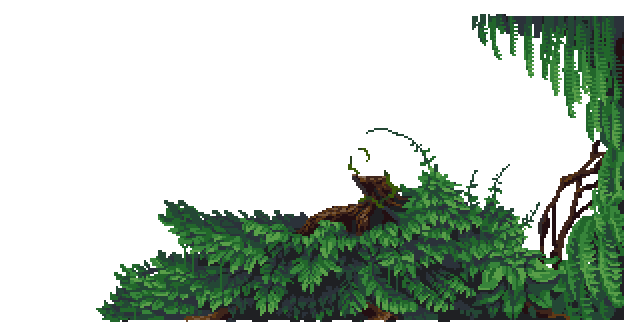
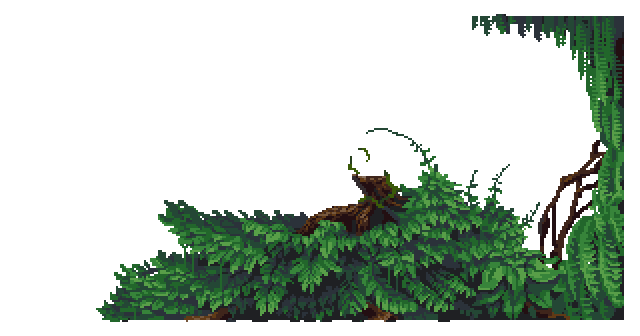
Fern leaves now can swing in wind.

Changed region(s): [[0.75, 0.0298, 0.9375, 0.4167]]

diff --git a/Sources/Modules/Yggdrasil/YggdrasilTown/Tiles/TwilightForest/RoomScenes/WaterSluice_Liquid_Scene.cs b/Sources/Modules/Yggdrasil/YggdrasilTown/Tiles/TwilightForest/RoomScenes/WaterSluice_Liquid_Scene.cs
@@ -15,8 +15,8 @@ public class WaterSluice_Liquid_Scene : TileVFX
 		int rightSolid = 0;
 		for (int x = 1; x < 15; x++)
 		{
-			Tile tileLeft = YggdrasilWorldGeneration.SafeGetTile(i - x, j);
-			Tile tileRight = YggdrasilWorldGeneration.SafeGetTile(i + x, j);
+			Tile tileLeft = TileUtils.SafeGetTile(i - x, j);
+			Tile tileRight = TileUtils.SafeGetTile(i + x, j);
 			if (tileLeft.HasTile && tileLeft.TileType == ModContent.TileType<GreenRelicBrick>())
 			{
 				leftSolid++;
@@ -81,7 +81,7 @@ public class WaterSluice_Liquid_Scene : TileVFX
 		// for (int i = 0; i < 300; i++)
 		// {
 		// Vector2 drawPos = worldPos + new Vector2(0, i * 2);
-		// var tile = YggdrasilWorldGeneration.SafeGetTile(drawPos.ToTileCoordinates());
+		// var tile = TileUtils.SafeGetTile(drawPos.ToTileCoordinates());
 		// float liquidCut = (16 - drawPos.Y % 16) * 16f;
 		// if ((Collision.IsWorldPointSolid(drawPos) && !Main.tileSolidTop[tile.TileType]) || tile.LiquidAmount > liquidCut)
 		// {
@@ -108,7 +108,7 @@ public class WaterSluice_Liquid_Scene : TileVFX
 		for (int i = 0; i < 300; i++)
 		{
 			Vector2 drawPos = worldPos + new Vector2(0, i * 2);
-			var tile = YggdrasilWorldGeneration.SafeGetTile(drawPos.ToTileCoordinates());
+			var tile = TileUtils.SafeGetTile(drawPos.ToTileCoordinates());
 			float liquidCut = (16 - drawPos.Y % 16) * 16f;
 			float waterWidth = 3;
 			if ((Collision.IsWorldPointSolid(drawPos) && !Main.tileSolidTop[tile.TileType]) || tile.LiquidAmount > liquidCut)
@@ -132,7 +132,7 @@ public class WaterSluice_Liquid_Scene : TileVFX
 		for (int i = 0; i < 300; i++)
 		{
 			Vector2 drawPos = worldPos + new Vector2(0, i * 2);
-			var tile = YggdrasilWorldGeneration.SafeGetTile(drawPos.ToTileCoordinates());
+			var tile = TileUtils.SafeGetTile(drawPos.ToTileCoordinates());
 			float liquidCut = (16 - drawPos.Y % 16) * 16f;
 			float waterWidth = 29;
 			if ((Collision.IsWorldPointSolid(drawPos) && !Main.tileSolidTop[tile.TileType]) || tile.LiquidAmount > liquidCut)
@@ -166,7 +166,7 @@ public class WaterSluice_Liquid_Scene : TileVFX
 		for (int i = 0; i < 300; i++)
 		{
 			Vector2 drawPos = worldPos + new Vector2(0, i * 2);
-			var tile = YggdrasilWorldGeneration.SafeGetTile(drawPos.ToTileCoordinates());
+			var tile = TileUtils.SafeGetTile(drawPos.ToTileCoordinates());
 			float liquidCut = (16 - drawPos.Y % 16) * 16f;
 			if ((Collision.IsWorldPointSolid(drawPos) && !Main.tileSolidTop[tile.TileType]) || tile.LiquidAmount > liquidCut)
 			{
@@ -219,7 +219,7 @@ public class WaterSluice_Liquid_Scene : TileVFX
 		// {
 		// (offset0, offset1) = (offset1, offset0);
 		// }
-		// var tile = YggdrasilWorldGeneration.SafeGetTile(drawPos.ToTileCoordinates());
+		// var tile = TileUtils.SafeGetTile(drawPos.ToTileCoordinates());
 		// float liquidCut = (16 - drawPos.Y % 16) * 16f;
 		// if ((Collision.IsWorldPointSolid(drawPos) && !Main.tileSolidTop[tile.TileType]) || tile.LiquidAmount > liquidCut)
 		// {
@@ -272,7 +272,7 @@ public class WaterSluice_Liquid_Scene : TileVFX
 				(offset0, offset1) = (offset1, offset0);
 				(drawPos0, drawPos1) = (drawPos1, drawPos0);
 			}
-			var tile = YggdrasilWorldGeneration.SafeGetTile(drawPos0.ToTileCoordinates());
+			var tile = TileUtils.SafeGetTile(drawPos0.ToTileCoordinates());
 			float liquidCut = (16 - drawPos0.Y % 16) * 16f;
 			if ((Collision.IsWorldPointSolid(drawPos0) && !Main.tileSolidTop[tile.TileType]) || tile.LiquidAmount > liquidCut)
 			{

diff --git a/Sources/Everglow.Function/VFX/Scene/FlagLikeVFX.cs b/Sources/Everglow.Function/VFX/Scene/FlagLikeVFX.cs
@@ -17,6 +17,13 @@ public class FlagLikeVFX : TileVFX
 
 	public Vector2 AnchorOffset = Vector2.zeroVector;
 
+	public bool Flip_H = false;
+
+	/// <summary>
+	/// This associate with the distort magnitude in wind push.
+	/// </summary>
+	public float Hardness = 1f;
+
 	public void GenerateMeshgrid()
 	{
 		int width = Texture.Width / 16;
@@ -49,34 +56,36 @@ public class FlagLikeVFX : TileVFX
 					origPos.X = Meshgrid[x, y - 1].X;
 					Meshgrid[x, y].Y += MathF.Pow(Meshgrid.GetLength(1) - y, 2) * 0.006f;
 				}
-				Meshgrid[x, y] += GetWindPush(Meshgrid[x, y].X, Meshgrid[x, y].Y);
+				Meshgrid[x, y] += GetWindPush(Meshgrid[x, y].X, Meshgrid[x, y].Y, Hardness);
 				Meshgrid[x, y] += (origPos - Meshgrid[x, y]) * 0.2f;
 
 				if (y < Meshgrid.GetLength(1) - 1)
 				{
-					PushFrom(ref origPos, Meshgrid[x, y + 1]);
+					PushFrom(ref origPos, ref Meshgrid[x, y + 1]);
 				}
 				if (y > 0)
 				{
-					PushFrom(ref origPos, Meshgrid[x, y - 1]);
+					PushFrom(ref origPos, ref Meshgrid[x, y - 1]);
 				}
 				if (x < Meshgrid.GetLength(0) - 1)
 				{
-					PushFrom(ref origPos, Meshgrid[x + 1, y]);
+					PushFrom(ref origPos, ref Meshgrid[x + 1, y]);
 				}
 				if (x > 0)
 				{
-					PushFrom(ref origPos, Meshgrid[x - 1, y]);
+					PushFrom(ref origPos, ref Meshgrid[x - 1, y]);
 				}
 			}
 		}
 		base.Update();
 	}
 
-	public void PushFrom(ref Vector2 origPosition, Vector2 targetPos)
+	public void PushFrom(ref Vector2 origPosition, ref Vector2 targetPos)
 	{
 		Vector2 totarget = targetPos - origPosition;
-		origPosition += totarget.NormalizeSafe() * (totarget.Length() - 16) * 0.1f;
+		Vector2 force = totarget.NormalizeSafe() * (totarget.Length() - 16) * 1f;
+		origPosition += force;
+		targetPos -= force;
 	}
 
 	public override void Draw()
@@ -106,26 +115,30 @@ public class FlagLikeVFX : TileVFX
 	{
 		Vector2 position = Meshgrid[xIndex, yIndex];
 		Vector2 texCoord = new Vector2(xIndex, yIndex) / Texture.Size() * 16;
+		if(Flip_H)
+		{
+			texCoord.X = 1 - texCoord.X;
+		}
 		bars.Add(position, Lighting.GetColor(position.ToTileCoordinates()), new Vector3(texCoord, 0));
 	}
 
-	public static Vector2 GetWindPush(Vector2 pos)
+	public static Vector2 GetWindPush(Vector2 pos, float hardness)
 	{
-		return GetWindPush(pos.X, pos.Y);
+		return GetWindPush(pos.X, pos.Y, hardness);
 	}
 
-	public static Vector2 GetWindPush(float x, float y)
+	public static Vector2 GetWindPush(float x, float y, float hardness)
 	{
 		float noise = 0;
-		float timeValue = (float)Main.time * 0.008f;
+		float timeValue = (float)Main.time * 0.08f;
 
 		for (int i = 0; i < 8; i++)
 		{
-			noise += MathF.Sin(timeValue * MathF.Pow(2, i) + (x * 0.025f + i)) * MathF.Pow(2, -i);
+			noise += MathF.Sin((timeValue + x * 0.15f + i) * MathF.Pow(2, i)) * MathF.Pow(2, -i);
 		}
 		for (int j = 0; j < 8; j++)
 		{
-			noise += MathF.Sin(timeValue * MathF.Pow(2, j) + (y * 0.025f + j)) * MathF.Pow(2, -j);
+			noise += MathF.Sin((timeValue + y * 0.15f) + j * MathF.Pow(2, j)) * MathF.Pow(2, -j);
 		}
 		float pushX = noise * 1f * Main.windSpeedCurrent + Main.windSpeedCurrent * 4f;
 		if (Main.tile[new Vector2(x, y).ToTileCoordinates()].WallType > WallID.None)
@@ -144,6 +157,6 @@ public class FlagLikeVFX : TileVFX
 			}
 		}
 
-		return new Vector2(pushX, 0) + addVel;
+		return (new Vector2(pushX, 0) + addVel) * hardness;
 	}
 }

diff --git a/Sources/Modules/Yggdrasil/YggdrasilTown/Tiles/TwilightForest/RoomScenes/ForestCastle_Scene.cs b/Sources/Modules/Yggdrasil/YggdrasilTown/Tiles/TwilightForest/RoomScenes/ForestCastle_Scene.cs
@@ -30,20 +30,61 @@ public class ForestCastle_Scene : ModTile, ISceneTile
 		return false;
 	}
 
+	public bool FlipHorizontally(int i, int j)
+	{
+		int leftSolid = 0;
+		int rightSolid = 0;
+		for (int x = 1; x < 15; x++)
+		{
+			Tile tileLeft = TileUtils.SafeGetTile(i - x, j);
+			Tile tileRight = TileUtils.SafeGetTile(i + x, j);
+			if (tileLeft.HasTile && tileLeft.TileType == ModContent.TileType<GreenRelicBrick>())
+			{
+				leftSolid++;
+			}
+			if (tileRight.HasTile && tileRight.TileType == ModContent.TileType<GreenRelicBrick>())
+			{
+				rightSolid++;
+			}
+		}
+		if (rightSolid > leftSolid)
+		{
+			return false;
+		}
+		return true;
+	}
+
 	public void AddScene(int i, int j)
 	{
 		var scene_Close = new TwilightCastle_RoomScene_OverTiles { Position = new Vector2(i, j) * 16, Active = true, Visible = true, OriginTilePos = new Point(i, j), OriginTileType = Type, Texture = ModAsset.ForestCastle_Scene_Close.Value };
 		scene_Close.CustomDraw += DrawForestCastleOverTile;
 		var scene_Background = new TwilightCastle_RoomScene_Background { Position = new Vector2(i, j) * 16, Active = true, Visible = true, OriginTilePos = new Point(i, j), OriginTileType = Type, Texture = ModAsset.ForestCastle_Scene_Background.Value };
 		scene_Background.CustomDraw += DrawForestCastleBackground;
-		var flag_Scene = new FlagLikeVFX { Position = new Vector2(i, j) * 16, Active = true, Visible = true, OriginTilePos = new Point(i, j), OriginTileType = Type, Texture = Commons.ModAsset.TileBlock3x3.Value, AnchorOffset = new Vector2(600, 0) };
-		Ins.VFXManager.Add(flag_Scene);
-		var flag_Scene2 = new FlagLikeVFX { Position = new Vector2(i, j) * 16, Active = true, Visible = true, OriginTilePos = new Point(i, j), OriginTileType = Type, Texture = Commons.ModAsset.TileBlock4x4.Value, AnchorOffset = new Vector2(690, 0) };
-		Ins.VFXManager.Add(flag_Scene2);
 
+		AddFern(i, j, ModAsset.ForestCastle_Scene_Fern0.Value, new Vector2(528, 16));
+		AddFern(i, j, ModAsset.ForestCastle_Scene_Fern1.Value, new Vector2(492, 14));
+		AddFern(i, j, ModAsset.ForestCastle_Scene_Fern2.Value, new Vector2(512, 16));
+		AddFern(i, j, ModAsset.ForestCastle_Scene_Fern3.Value, new Vector2(482, 14));
+		AddFern(i, j, ModAsset.ForestCastle_Scene_Fern4.Value, new Vector2(544, 16));
+		AddFern(i, j, ModAsset.ForestCastle_Scene_Fern5.Value, new Vector2(558, 16));
+		AddFern(i, j, ModAsset.ForestCastle_Scene_Fern6.Value, new Vector2(570, 16));
+		AddFern(i, j, ModAsset.ForestCastle_Scene_Fern7.Value, new Vector2(582, 52));
+		AddFern(i, j, ModAsset.ForestCastle_Scene_Fern8.Value, new Vector2(588, 102));
 
 		Ins.VFXManager.Add(scene_Close);
 		Ins.VFXManager.Add(scene_Background);
+	}
+
+	public void AddFern(int i, int j, Texture2D texture, Vector2 offset)
+	{
+		bool flip_H = FlipHorizontally(i, j);
+		Vector2 anchor = offset + new Vector2(-16, -8);
+		if (flip_H)
+		{
+			anchor.X = -offset.X;
+		}
+		var flag_Scene = new FlagLikeVFX { Position = new Vector2(i, j) * 16, Active = true, Visible = true, OriginTilePos = new Point(i, j), OriginTileType = Type, Texture = texture, AnchorOffset = anchor, Flip_H = flip_H };
+		Ins.VFXManager.Add(flag_Scene);
 	}
 
 	public void DrawForestCastleOverTile(TwilightCastle_RoomScene_OverTiles otD)

diff --git a/Sources/Modules/Yggdrasil/YggdrasilTown/Tiles/TwilightForest/RoomScenes/Desert_Scene.cs b/Sources/Modules/Yggdrasil/YggdrasilTown/Tiles/TwilightForest/RoomScenes/Desert_Scene.cs
@@ -30,8 +30,8 @@ public class Desert_Scene : ModTile, ISceneTile
 		int rightSolid = 0;
 		for (int x = 1; x < 15; x++)
 		{
-			Tile tileLeft = YggdrasilWorldGeneration.SafeGetTile(i - x, j);
-			Tile tileRight = YggdrasilWorldGeneration.SafeGetTile(i + x, j);
+			Tile tileLeft = TileUtils.SafeGetTile(i - x, j);
+			Tile tileRight = TileUtils.SafeGetTile(i + x, j);
 			if (tileLeft.HasTile && tileLeft.TileType == ModContent.TileType<GreenRelicBrick>())
 			{
 				leftSolid++;
@@ -77,7 +77,7 @@ public class Desert_Scene : ModTile, ISceneTile
 			direction = -1;
 		}
 
-		Tile tile_lantern = YggdrasilWorldGeneration.SafeGetTile(otD.OriginTilePos + new Point(7 * direction, 5));
+		Tile tile_lantern = TileUtils.SafeGetTile(otD.OriginTilePos + new Point(7 * direction, 5));
 		if (tile_lantern.TileType == ModContent.TileType<SandgoldLantern>() && tile_lantern.TileFrameX == 0)
 		{
 			tex0 = ModAsset.Desert_Scene_Close_lightUp.Value;

diff --git a/Sources/Modules/Yggdrasil/YggdrasilTown/Tiles/TwilightForest/RoomScenes/WaterSluice_Scene.cs b/Sources/Modules/Yggdrasil/YggdrasilTown/Tiles/TwilightForest/RoomScenes/WaterSluice_Scene.cs
@@ -76,8 +76,8 @@ public class WaterSluice_Scene : ModTile, ISceneTile
 		int rightSolid = 0;
 		for (int x = 1; x < 15; x++)
 		{
-			Tile tileLeft = YggdrasilWorldGeneration.SafeGetTile(i - x, j);
-			Tile tileRight = YggdrasilWorldGeneration.SafeGetTile(i + x, j);
+			Tile tileLeft = TileUtils.SafeGetTile(i - x, j);
+			Tile tileRight = TileUtils.SafeGetTile(i + x, j);
 			if (tileLeft.HasTile && tileLeft.TileType == ModContent.TileType<GreenRelicBrick>())
 			{
 				leftSolid++;
@@ -162,7 +162,7 @@ public class WaterSluice_Scene : ModTile, ISceneTile
 		{
 			for(int y = myArea.Y; y < myArea.Y + myArea.Height; y++)
 			{
-				var tile = YggdrasilWorldGeneration.SafeGetTile(x, y);
+				var tile = TileUtils.SafeGetTile(x, y);
 				if(tile.LiquidType == LiquidID.Water && tile.LiquidAmount > 0)
 				{
 					Lighting.AddLight(x, y, 0.1f, 0.5f, 1f);

diff --git a/Sources/Modules/Yggdrasil/Common/Fish/FishGlobalProjectile.cs b/Sources/Modules/Yggdrasil/Common/Fish/FishGlobalProjectile.cs
@@ -11,7 +11,7 @@ public class FishGlobalProjectile : GlobalProjectile
 			return;
 		}
 		Point center = projectile.Center.ToTileCoordinates();
-		var tile = YggdrasilWorldGeneration.SafeGetTile(center);
+		var tile = TileUtils.SafeGetTile(center);
 		if (tile != null)
 		{
 			if (tile.LiquidAmount > 0)
@@ -29,7 +29,7 @@ public class FishGlobalProjectile : GlobalProjectile
 			projectile.rotation = MathF.PI / 2f + da * 0.4f;
 
 			Point top = center + new Point(0, -1);
-			var topTile = YggdrasilWorldGeneration.SafeGetTile(top);
+			var topTile = TileUtils.SafeGetTile(top);
 			if (topTile != null && FishSystem.LiquidList.Contains(topTile.TileType))
 			{
 				// 上面一格是液体，需要上浮

diff --git a/Sources/Modules/Yggdrasil/YggdrasilTown/Tiles/TwilightForest/RoomScenes/TwilightCastle_RoomScene_Background.cs b/Sources/Modules/Yggdrasil/YggdrasilTown/Tiles/TwilightForest/RoomScenes/TwilightCastle_RoomScene_Background.cs
@@ -14,8 +14,8 @@ public class TwilightCastle_RoomScene_Background : TileVFX
 		int rightSolid = 0;
 		for (int x = 1; x < 15; x++)
 		{
-			Tile tileLeft = YggdrasilWorldGeneration.SafeGetTile(i - x, j);
-			Tile tileRight = YggdrasilWorldGeneration.SafeGetTile(i + x, j);
+			Tile tileLeft = TileUtils.SafeGetTile(i - x, j);
+			Tile tileRight = TileUtils.SafeGetTile(i + x, j);
 			if (tileLeft.HasTile && tileLeft.TileType == ModContent.TileType<GreenRelicBrick>())
 			{
 				leftSolid++;

diff --git a/Sources/Modules/Yggdrasil/YggdrasilTown/Tiles/TwilightForest/RoomScenes/TwilightCastle_RoomScene_OverTiles.cs b/Sources/Modules/Yggdrasil/YggdrasilTown/Tiles/TwilightForest/RoomScenes/TwilightCastle_RoomScene_OverTiles.cs
@@ -16,8 +16,8 @@ public class TwilightCastle_RoomScene_OverTiles : TileVFX
 		int rightSolid = 0;
 		for (int x = 1; x < 15; x++)
 		{
-			Tile tileLeft = YggdrasilWorldGeneration.SafeGetTile(i - x, j);
-			Tile tileRight = YggdrasilWorldGeneration.SafeGetTile(i + x, j);
+			Tile tileLeft = TileUtils.SafeGetTile(i - x, j);
+			Tile tileRight = TileUtils.SafeGetTile(i + x, j);
 			if (tileLeft.HasTile && tileLeft.TileType == ModContent.TileType<GreenRelicBrick>())
 			{
 				leftSolid++;

diff --git a/Sources/Modules/Yggdrasil/YggdrasilTown/Tiles/TwilightForest/RoomScenes/BloodChurch_Scene.cs b/Sources/Modules/Yggdrasil/YggdrasilTown/Tiles/TwilightForest/RoomScenes/BloodChurch_Scene.cs
@@ -15,8 +15,8 @@ public class BloodChurch_Scene : ModTile, ISceneTile
 		int rightSolid = 0;
 		for (int x = 1; x < 15; x++)
 		{
-			Tile tileLeft = YggdrasilWorldGeneration.SafeGetTile(i - x, j);
-			Tile tileRight = YggdrasilWorldGeneration.SafeGetTile(i + x, j);
+			Tile tileLeft = TileUtils.SafeGetTile(i - x, j);
+			Tile tileRight = TileUtils.SafeGetTile(i + x, j);
 			if (tileLeft.HasTile && tileLeft.TileType == ModContent.TileType<GreenRelicBrick>())
 			{
 				leftSolid++;

diff --git a/Sources/Modules/Yggdrasil/YggdrasilTown/Tiles/TwilightForest/RoomScenes/BloodChurch_Liquid_Scene.cs b/Sources/Modules/Yggdrasil/YggdrasilTown/Tiles/TwilightForest/RoomScenes/BloodChurch_Liquid_Scene.cs
@@ -14,8 +14,8 @@ public class BloodChurch_Liquid_Scene : TileVFX
 		int rightSolid = 0;
 		for (int x = 1; x < 15; x++)
 		{
-			Tile tileLeft = YggdrasilWorldGeneration.SafeGetTile(i - x, j);
-			Tile tileRight = YggdrasilWorldGeneration.SafeGetTile(i + x, j);
+			Tile tileLeft = TileUtils.SafeGetTile(i - x, j);
+			Tile tileRight = TileUtils.SafeGetTile(i + x, j);
 			if (tileLeft.HasTile && tileLeft.TileType == ModContent.TileType<GreenRelicBrick>())
 			{
 				leftSolid++;

diff --git a/Sources/Modules/Yggdrasil/WorldGeneration/YggdrasilWorldGeneration.cs b/Sources/Modules/Yggdrasil/WorldGeneration/YggdrasilWorldGeneration.cs
@@ -2054,7 +2054,7 @@ public class YggdrasilWorldGeneration : ModSystem
 				int checkX = tilePos.X + dx;
 				int checkY = tilePos.Y + dy;
 				Point point = new Point(checkX, checkY);
-				Tile tile = YggdrasilWorldGeneration.SafeGetTile(checkX, checkY);
+				Tile tile = TileUtils.SafeGetTile(checkX, checkY);
 
 				// 检查边界和障碍物
 				if (checkX >= 20 && checkX < Main.maxTilesX - 20 && checkY >= 20 && checkY < Main.maxTilesY - 20 &&

diff --git a/Sources/Modules/Yggdrasil/YggdrasilTown/Dusts/WaterSluiceBubble.cs b/Sources/Modules/Yggdrasil/YggdrasilTown/Dusts/WaterSluiceBubble.cs
@@ -20,7 +20,7 @@ public class WaterSluiceBubble : ModDust
 		{
 			dust.active = false;
 		}
-		Tile dustPosTile = YggdrasilWorldGeneration.SafeGetTile(dust.position.ToTileCoordinates());
+		Tile dustPosTile = TileUtils.SafeGetTile(dust.position.ToTileCoordinates());
 		if (dust.position.Y % 16 > dustPosTile.LiquidAmount / 16f)
 		{
 			dust.active = false;
